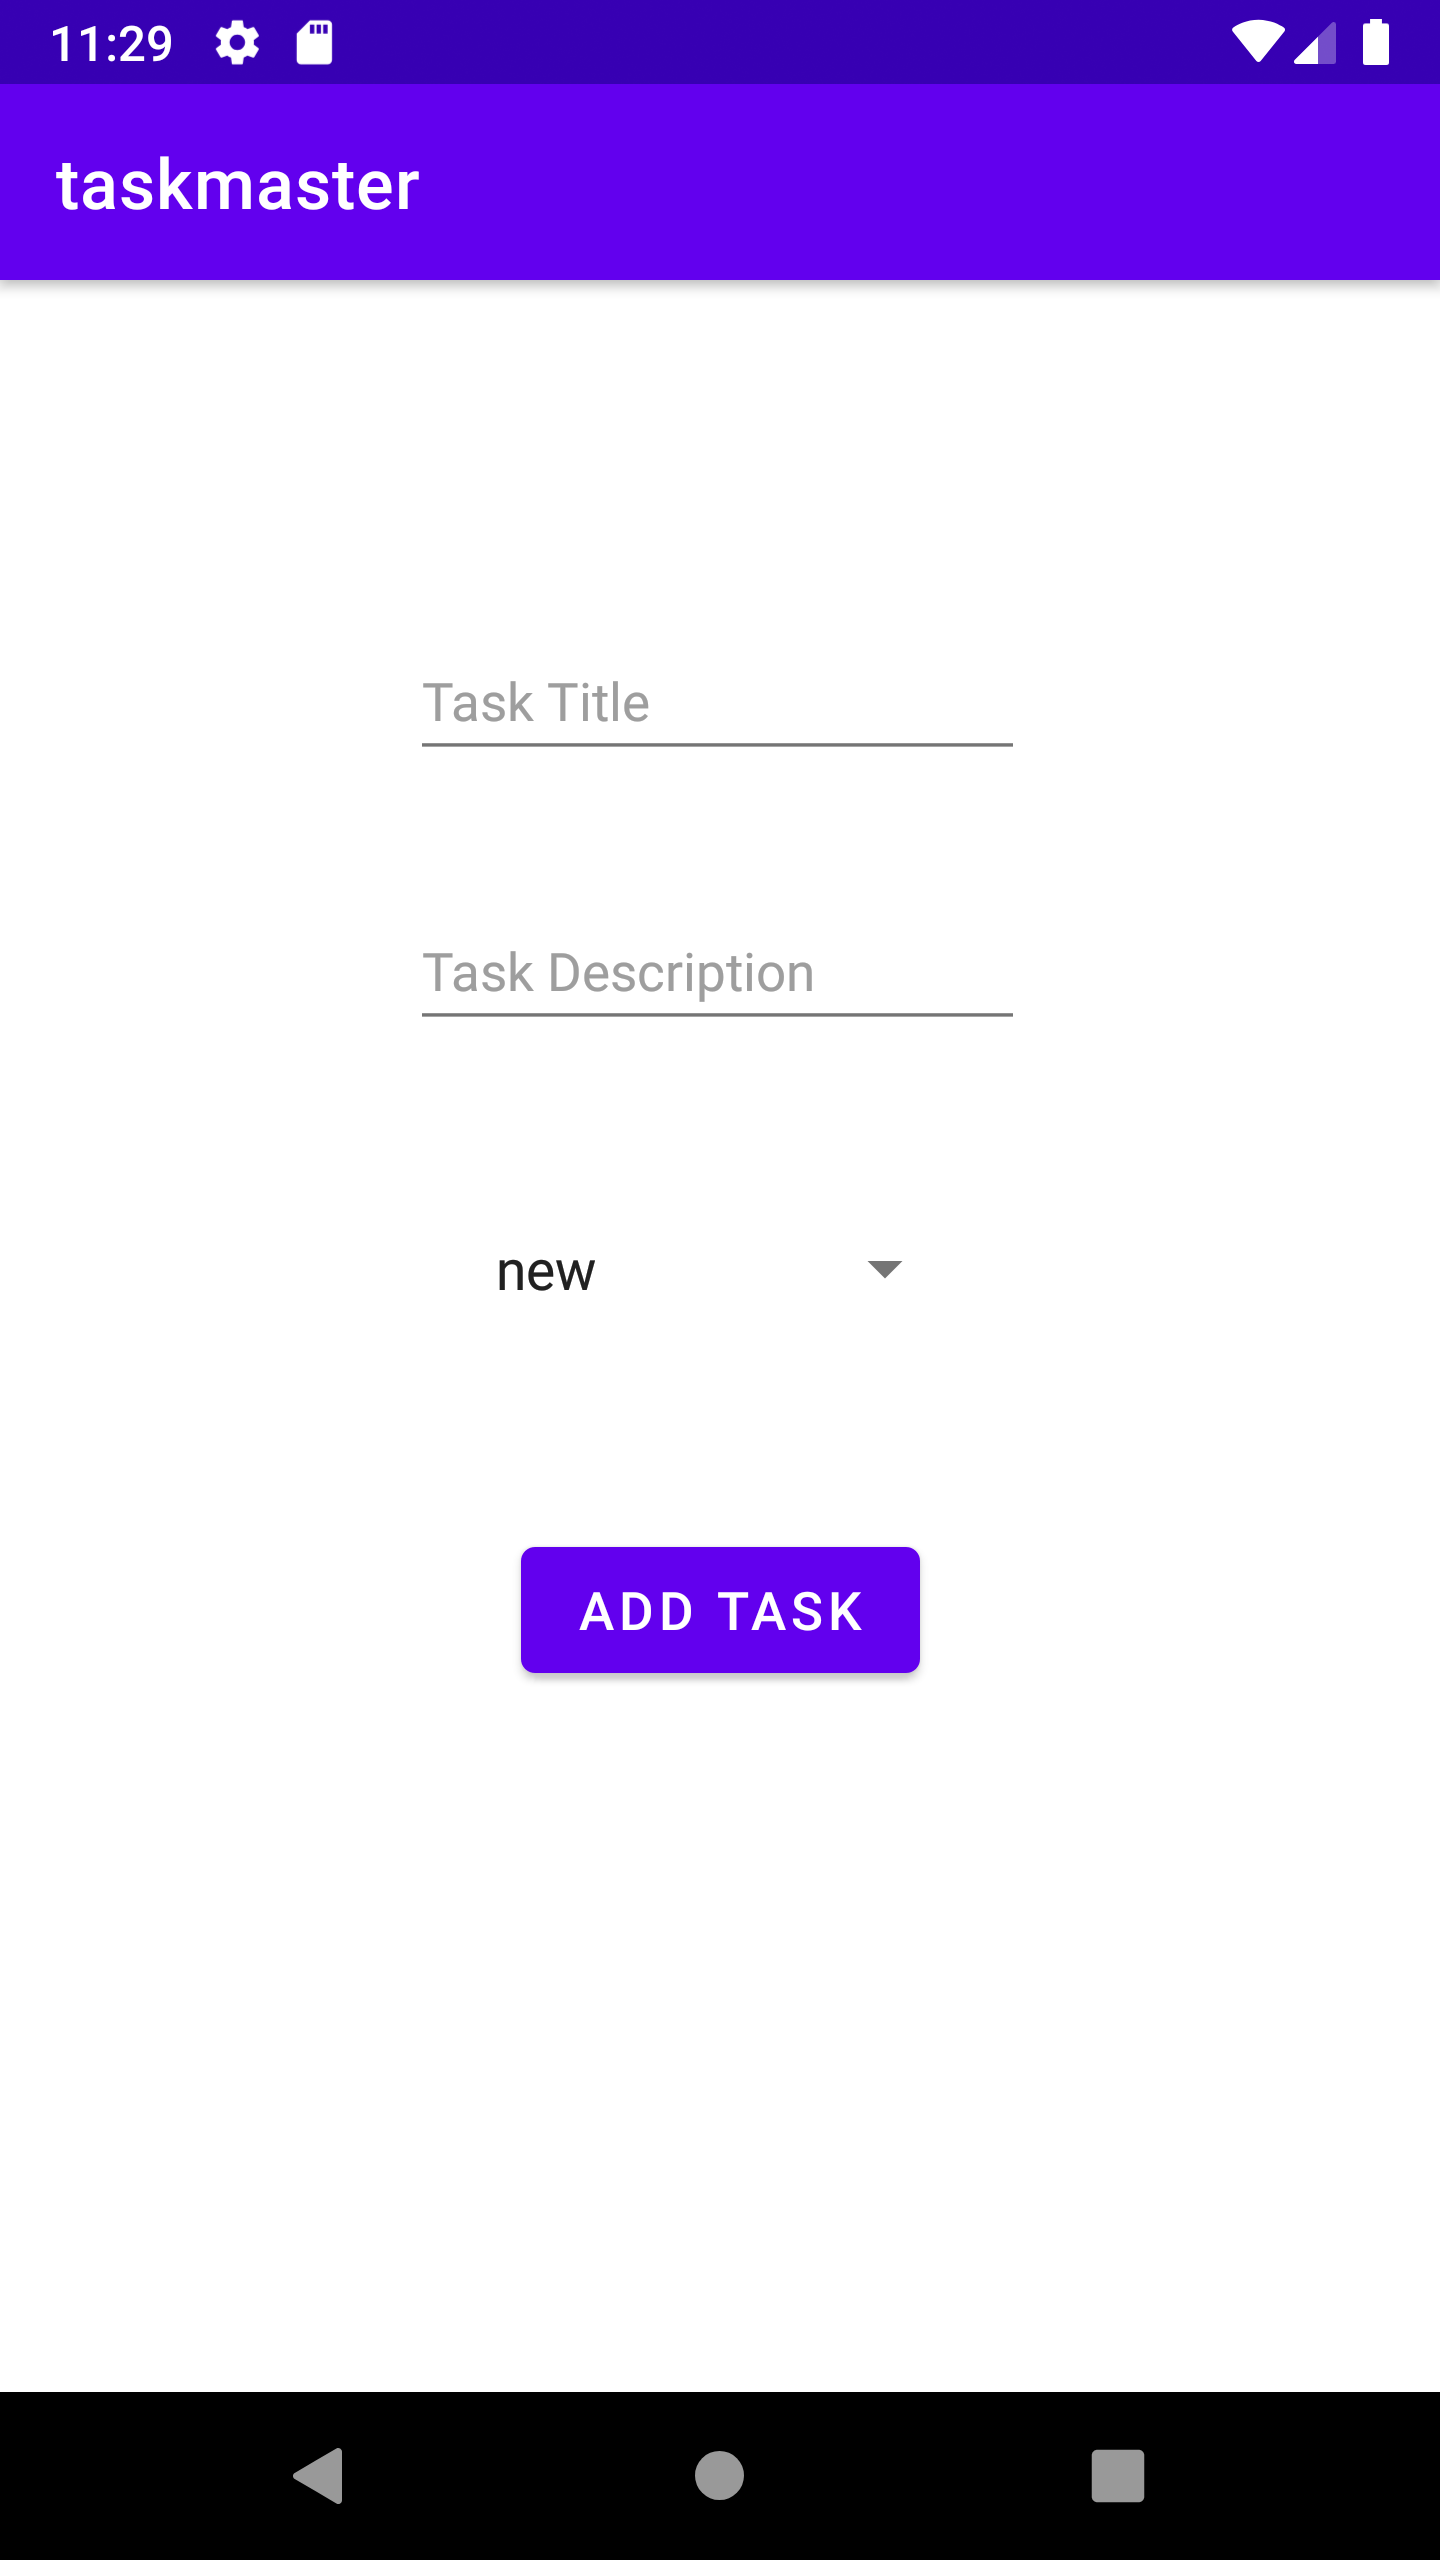
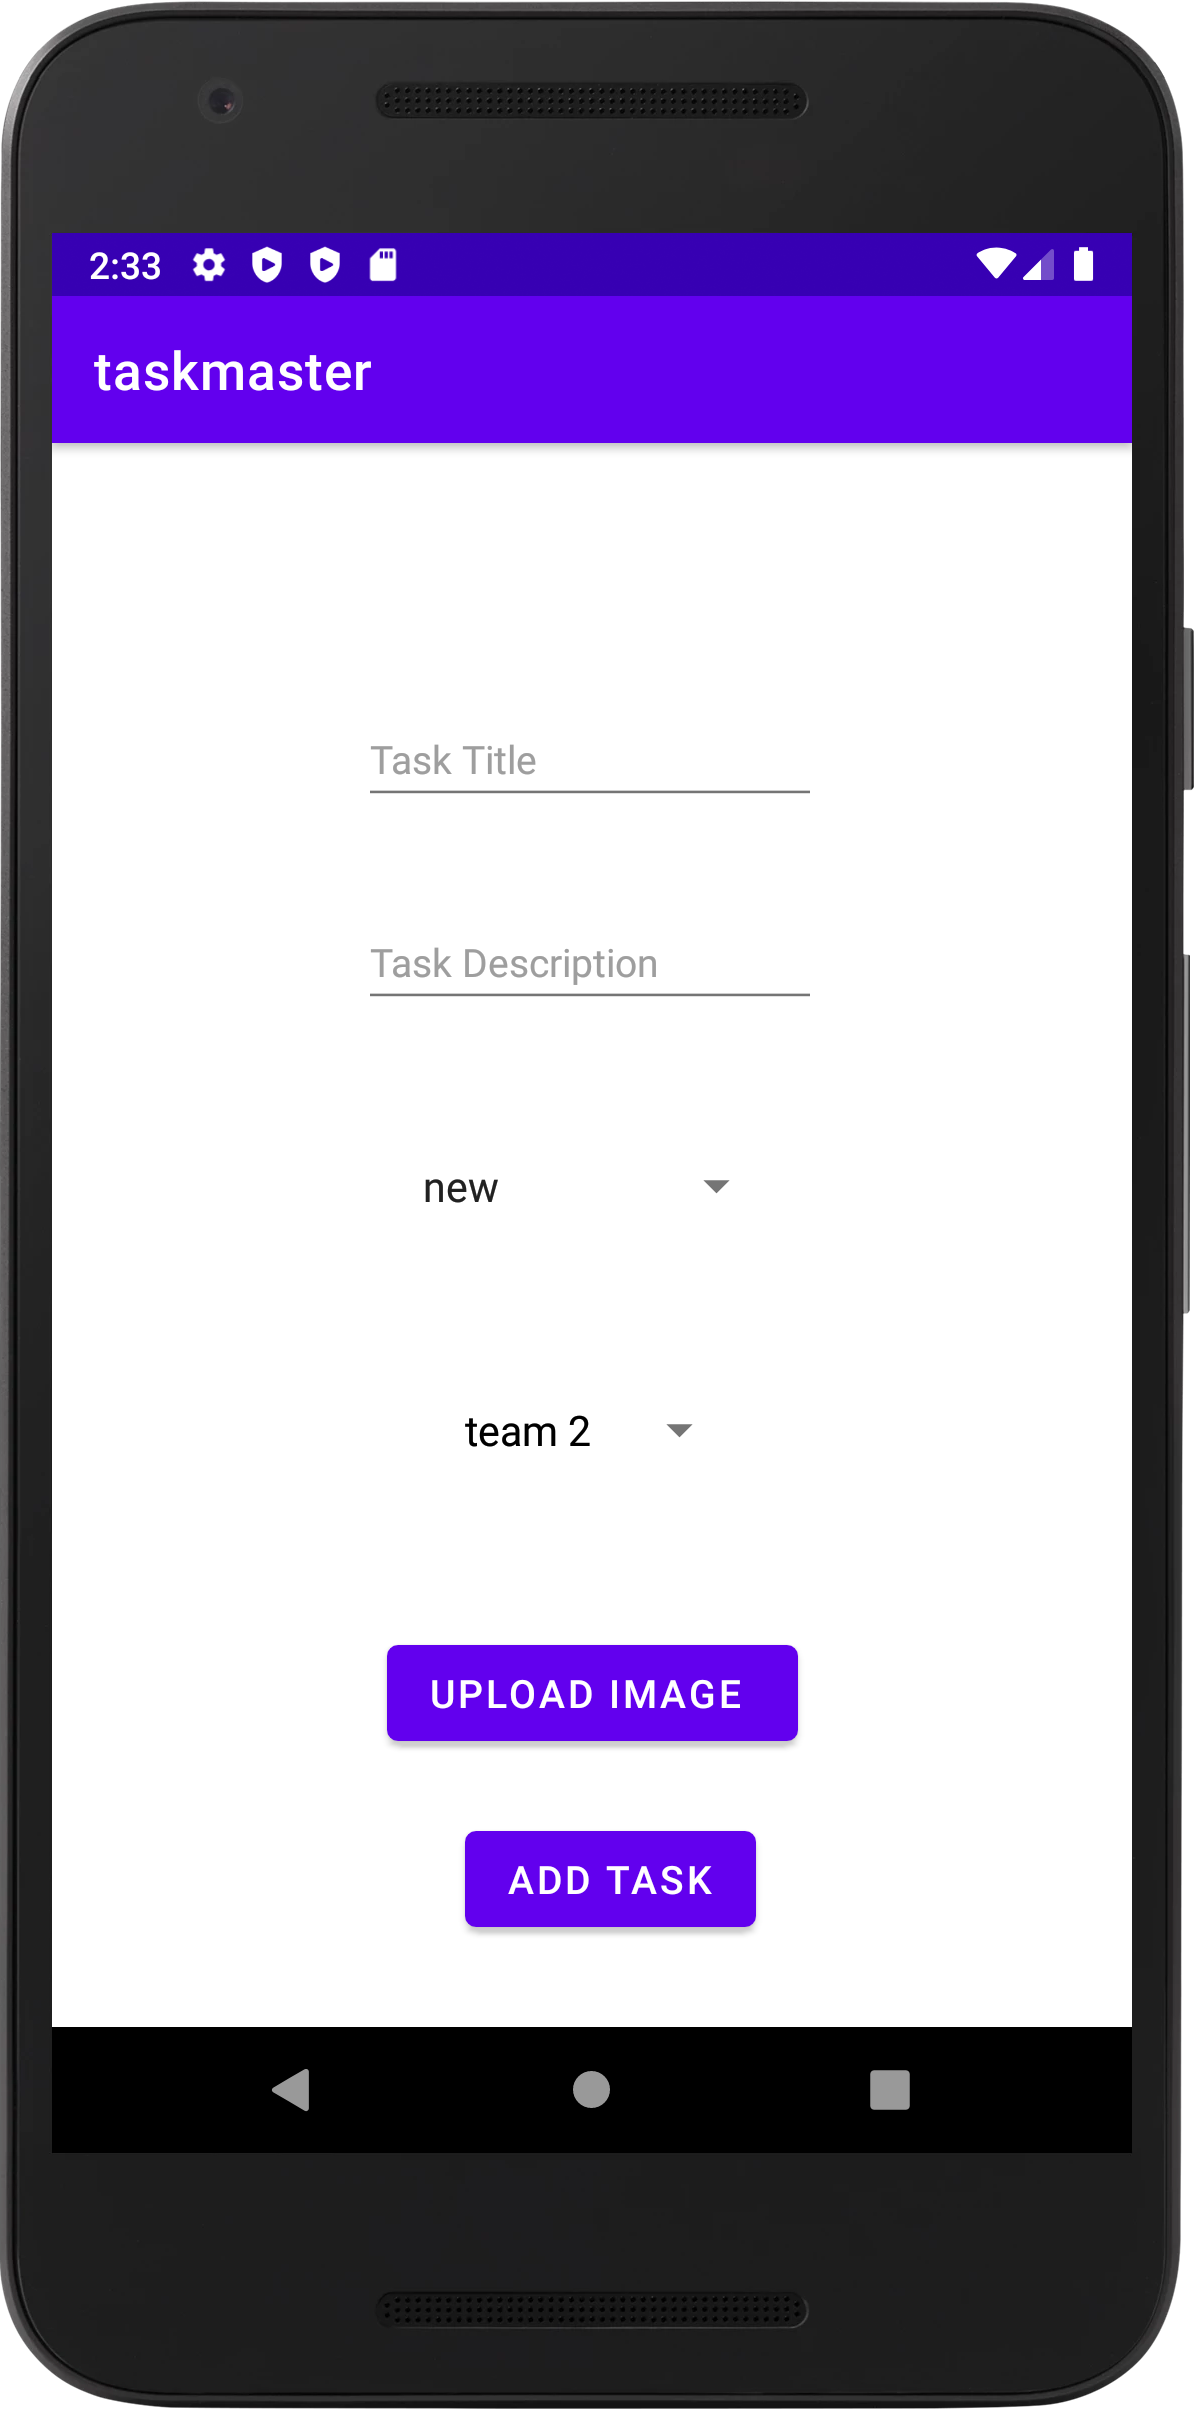
Done

diff --git a/amplify/backend/types/amplify-dependent-resources-ref.d.ts b/amplify/backend/types/amplify-dependent-resources-ref.d.ts
@@ -16,5 +16,11 @@ export type AmplifyDependentResourcesAttributes = {
             "AppClientIDWeb": "string",
             "AppClientID": "string"
         }
+    },
+    "storage": {
+        "s3d2d35797": {
+            "BucketName": "string",
+            "Region": "string"
+        }
     }
 }

diff --git a/app/src/main/java/com/example/taskmaster/AddTaskActivity.java b/app/src/main/java/com/example/taskmaster/AddTaskActivity.java
@@ -1,14 +1,21 @@
 package com.example.taskmaster;
 
+import androidx.annotation.Nullable;
 import androidx.appcompat.app.AppCompatActivity;
 import androidx.recyclerview.widget.LinearLayoutManager;
 import androidx.recyclerview.widget.RecyclerView;
 
+import android.app.Activity;
 import android.content.Intent;
+import android.graphics.Bitmap;
+import android.graphics.BitmapFactory;
+import android.net.Uri;
 import android.os.Bundle;
 import android.os.Handler;
 import android.os.Looper;
 import android.os.Message;
+import android.os.ParcelFileDescriptor;
+import android.provider.MediaStore;
 import android.util.Log;
 import android.widget.ArrayAdapter;
 import android.widget.Button;
@@ -29,6 +36,14 @@ import com.example.taskmaster.data.TaskData;
 import com.example.taskmaster.ui.CustomRecyclerView;
 import com.example.taskmaster.ui.TaskDetailActivity;
 
+import java.io.BufferedOutputStream;
+import java.io.BufferedWriter;
+import java.io.File;
+import java.io.FileDescriptor;
+import java.io.FileOutputStream;
+import java.io.FileWriter;
+import java.io.IOException;
+import java.io.OutputStream;
 import java.util.ArrayList;
 import java.util.List;
 import java.util.Locale;
@@ -36,11 +51,17 @@ import java.util.stream.Collectors;
 
 public class AddTaskActivity extends AppCompatActivity {
 
+    public static final int REQUEST_CODE = 123;
     private static final String TAG = AddTaskActivity.class.getName();
+
     private EditText taskTitle;
     private EditText taskDesc;
+
     private Spinner spinner;
+
     private List<Team> teamList = new ArrayList<>();
+    private String imageKey = "" ;
+
     private Team team ;
 
 
@@ -69,6 +90,11 @@ public class AddTaskActivity extends AppCompatActivity {
         setContentView(R.layout.activity_add_task);
         Button addTask = findViewById(R.id.btn_submit_task);
         spinner = findViewById(R.id.team_spinner);
+
+        // LAB 37
+        Button upload = findViewById(R.id.btn_image_upload);
+
+        upload.setOnClickListener(view -> uploadImage());
 
 
         Handler handler = new Handler(Looper.getMainLooper() , msg -> {
@@ -131,6 +157,7 @@ public class AddTaskActivity extends AppCompatActivity {
                     .body(taskDesc.getText().toString())
                     .status(spinner.getSelectedItem().toString())
                     .teamTasksId(selectedTeam.getId())
+                    .image(imageKey)
                     .build();
 
 
@@ -154,5 +181,78 @@ public class AddTaskActivity extends AppCompatActivity {
 //            Long newTask = AppDatabase.getInstance(getApplicationContext()).taskDao().insertTask(taskData);
             startActivity(new Intent(getApplicationContext() , MainActivity.class));
         });
+    }
+
+
+    public void uploadImage(){
+
+        Intent intent = new Intent(Intent.ACTION_PICK);
+        intent.setType("image/*");
+        startActivityForResult(intent, REQUEST_CODE);
+
+
+    }
+
+    @Override
+    protected void onActivityResult(int requestCode, int resultCode, @Nullable Intent data) {
+        super.onActivityResult(requestCode, resultCode, data);
+        if (resultCode != Activity.RESULT_OK) {
+            // Handle error
+            Log.e(TAG, "onActivityResult: Error getting image from device");
+            return;
+        }
+
+        switch(requestCode) {
+            case REQUEST_CODE:
+                // Get photo picker response for single select.
+                Uri currentUri = data.getData();
+
+                // Do stuff with the photo/video URI.
+                Log.i(TAG, "onActivityResult: the uri is => " + currentUri);
+
+                try {
+                    Bitmap bitmap = getBitmapFromUri(currentUri);
+
+                    File file = new File(getApplicationContext().getFilesDir(), "image.jpg");
+                    OutputStream os = new BufferedOutputStream(new FileOutputStream(file));
+                    bitmap.compress(Bitmap.CompressFormat.JPEG, 100, os);
+                    os.close();
+
+                    // upload to s3
+                    // uploads the file
+                    Amplify.Storage.uploadFile(
+                            "image.jpg",
+                            file,
+                            result -> {
+                                Log.i(TAG, "Successfully uploaded: " + result.getKey()) ;
+                                imageKey = result.getKey();
+                            },
+                            storageFailure -> Log.e(TAG, "Upload failed", storageFailure)
+                    );
+                } catch (IOException e) {
+                    e.printStackTrace();
+                }
+                return;
+        }
+    }
+
+    private Bitmap getBitmapFromUri(Uri uri) throws IOException {
+
+        ParcelFileDescriptor parcelFileDescriptor =
+                getContentResolver().openFileDescriptor(uri, "r");
+        FileDescriptor fileDescriptor = parcelFileDescriptor.getFileDescriptor();
+        Bitmap image = BitmapFactory.decodeFileDescriptor(fileDescriptor);
+        parcelFileDescriptor.close();
+
+        return image;
+    }
+
+    private void pictureDownload(){
+        Amplify.Storage.downloadFile(
+                "ExampleKey",
+                new File(getApplicationContext().getFilesDir() + "/download.txt"),
+                result -> Log.i("MyAmplifyApp", "Successfully downloaded: " + result.getFile().getName()),
+                error -> Log.e("MyAmplifyApp",  "Download Failure", error)
+        );
     }
 }

diff --git a/app/src/main/java/com/example/taskmaster/ui/TaskDetailActivity.java b/app/src/main/java/com/example/taskmaster/ui/TaskDetailActivity.java
@@ -10,6 +10,7 @@ import android.os.Handler;
 import android.os.Looper;
 import android.os.Message;
 import android.util.Log;
+import android.widget.ImageView;
 import android.widget.TextView;
 import android.widget.Toast;
 
@@ -19,42 +20,46 @@ import com.amplifyframework.api.graphql.model.ModelQuery;
 import com.amplifyframework.core.Amplify;
 import com.amplifyframework.datastore.AWSDataStorePlugin;
 import com.amplifyframework.datastore.generated.model.Task;
+import com.bumptech.glide.Glide;
 import com.example.taskmaster.R;
 import com.example.taskmaster.data.AppDatabase;
 import com.example.taskmaster.data.TaskData;
 
+import java.io.File;
 import java.util.ArrayList;
 import java.util.List;
 
 public class TaskDetailActivity extends AppCompatActivity {
 
+    private static final String TAG = TaskDetailActivity.class.getSimpleName();
     private String title , desc , status;
+    private ImageView imageView;
+    private String imageKey;
 
     @Override
     protected void onCreate(Bundle savedInstanceState) {
         super.onCreate(savedInstanceState);
 
         setContentView(R.layout.activity_task_detail);
+
         TextView textTitle = findViewById(R.id.text_title);
         TextView textDesc = findViewById(R.id.text_description);
         TextView textStatus = findViewById(R.id.text_status);
+
+        imageView = findViewById(R.id.img_task);
+
         Intent intent = getIntent();
 
-//        try {
-//            Amplify.addPlugin(new AWSDataStorePlugin());
-//            Amplify.addPlugin(new AWSApiPlugin());
-//            Amplify.configure(getApplicationContext());
-//
-//            Log.i("Tutorial", "Initialized Amplify");
-//        } catch (AmplifyException e) {
-//            Log.e("Tutorial", "Could not initialize Amplify", e);
-//        }
 
         Handler handler = new Handler(Looper.getMainLooper() , msg -> {
 
             textTitle.setText(title);
             textDesc.setText(desc);
             textStatus.setText(status.toString());
+            if ( imageKey != null){
+                setImage(imageKey);
+            }
+
             return true ;
         });
 
@@ -67,6 +72,7 @@ public class TaskDetailActivity extends AppCompatActivity {
                         title = response.getData().getTitle();
                         desc = response.getData().getBody();
                         status = response.getData().getStatus();
+                        imageKey = response.getData().getImage();
 
 
 
@@ -85,5 +91,24 @@ public class TaskDetailActivity extends AppCompatActivity {
 
 //        TaskData taskData = AppDatabase.getInstance(this).taskDao().getTaskByID(Long.valueOf(intent.getStringExtra("id")));
 
+    }
+
+    private void setImage(String image) {
+        if(image != null) {
+            Amplify.Storage.downloadFile(
+                    image,
+                    new File(getApplicationContext().getFilesDir() + "/" + image + "download.jpg"),
+                    result -> {
+                        Log.i(TAG, "The root path is: " + getApplicationContext().getFilesDir());
+                        Log.i(TAG, "Successfully downloaded: " + result.getFile().getName());
+                        runOnUiThread(() -> {
+
+                            Glide.with(this).load(result.getFile().getPath()).into(imageView);
+
+                        });
+                    },
+                    error -> Log.e(TAG, "Download Failure", error)
+            );
+        }
     }
 }

diff --git a/app/src/main/java/com/example/taskmaster/ui/AmplifyApplication.java b/app/src/main/java/com/example/taskmaster/ui/AmplifyApplication.java
@@ -8,6 +8,7 @@ import com.amplifyframework.api.aws.AWSApiPlugin;
 import com.amplifyframework.auth.cognito.AWSCognitoAuthPlugin;
 import com.amplifyframework.core.Amplify;
 import com.amplifyframework.datastore.AWSDataStorePlugin;
+import com.amplifyframework.storage.s3.AWSS3StoragePlugin;
 
 public class AmplifyApplication extends Application {
 
@@ -23,6 +24,7 @@ public class AmplifyApplication extends Application {
     private void configureAmplify() {
         try {
             Amplify.addPlugin(new AWSCognitoAuthPlugin());
+            Amplify.addPlugin(new AWSS3StoragePlugin());
             Amplify.addPlugin(new AWSApiPlugin());
             Amplify.addPlugin(new AWSDataStorePlugin());
             Amplify.configure(getApplicationContext());

diff --git a/README.md b/README.md
@@ -3,32 +3,14 @@ You can navigate through three page home , add task and all task page .
 
 ![Home Page](screenshots/home.png)
 
-After update you can now add you name from setting page then it will appear in the home and you can navigate throug the tasks 
+![login Page](screenshots/login-page.png)
 
-![Home Page](screenshots/Screenshot2.png)
+![signUP Page](screenshots/signUP.png)
 
+![add_task Page](screenshots/add_task.png)
 
-## Recycle view 
-In this time I add recycleview to show the task in the main page 
+![task_details Page](screenshots/task_details.png)
 
-![recycleView](screenshots/recycleView.png)
-
-## Room 
-Now you can add the task to your sqlite database from add task button 
-
-![recycleView](screenshots/home-page.png)
-![recycleView](screenshots/add_task.png)
-![recycleView](screenshots/task_details.png)
+![gallary Page](screenshots/gallary.png)
 
 
-## AWS 
-Now the app is connect with AWS backend and the task is related to the team thats belongs to . 
-
-![AWS](screenshots/Screenshot_1.png)
-![AWS](screenshots/Screenshot_2.png)
-![AWS](screenshots/Screenshot_3.png)
-
-
-## Authentication system 
-![signUP](screenshots/signUP.png)
-![login-page](screenshots/login-page.png)
